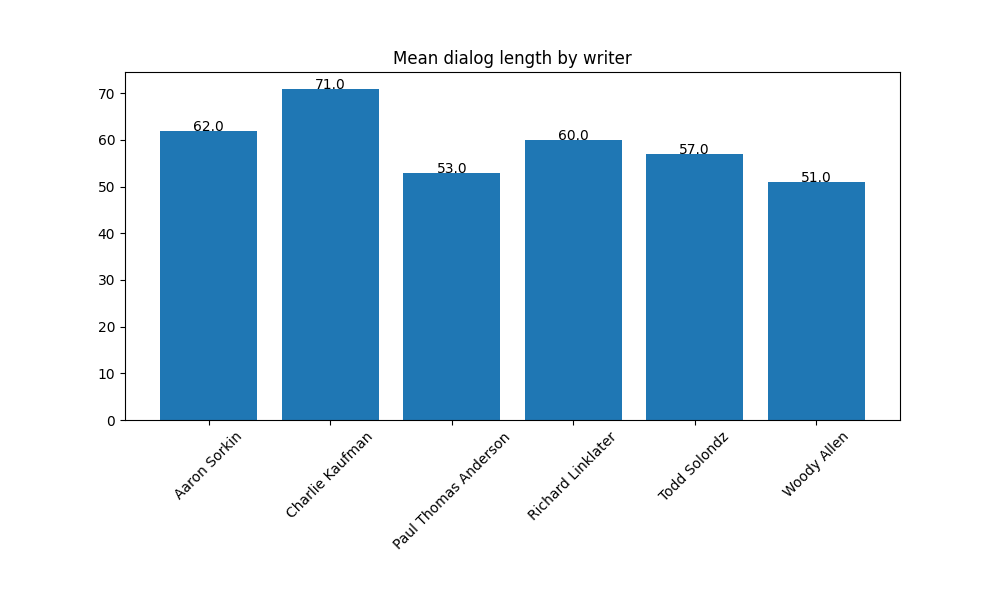
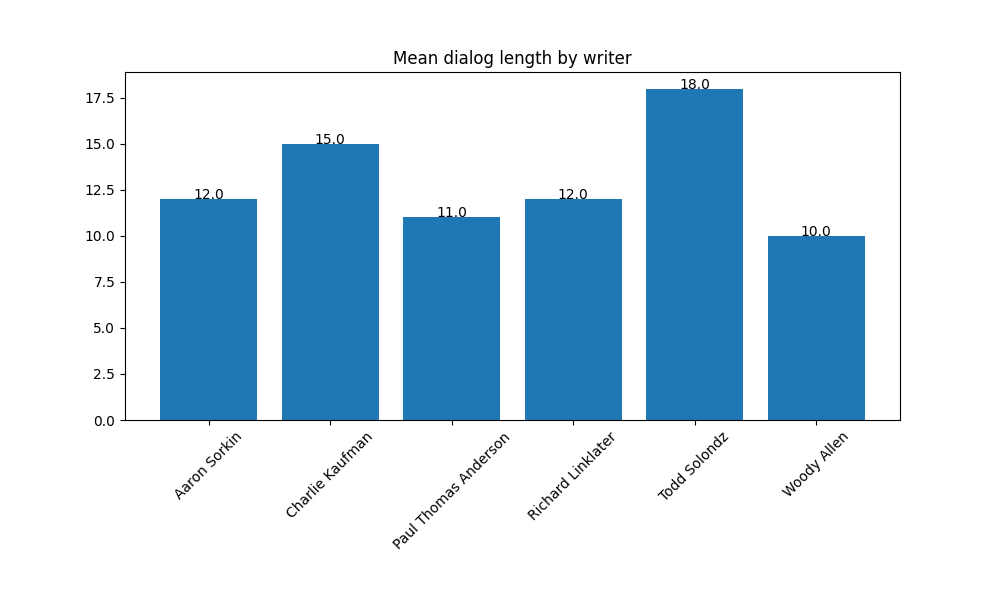
fix: count words instead of characters in  get_dialogs_length

diff --git a/src/mean_dialog_length.py b/src/mean_dialog_length.py
@@ -28,7 +28,7 @@ def get_dialogs_from_file(file):
 
 def get_dialogs_length(dialogs):
     # Return the length of each dialog
-    return [len(dialog) for dialog in dialogs]
+    return [len(dialog.split(" ")) for dialog in dialogs]
 
 
 def plot_dialogs_mean_by_writer(dialogs_length_per_writer):
